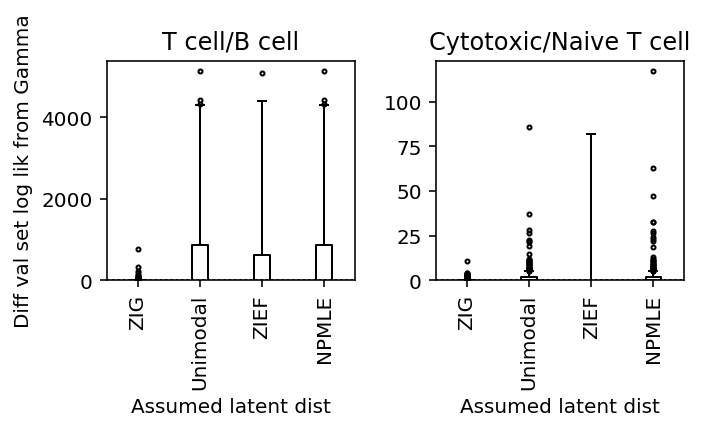
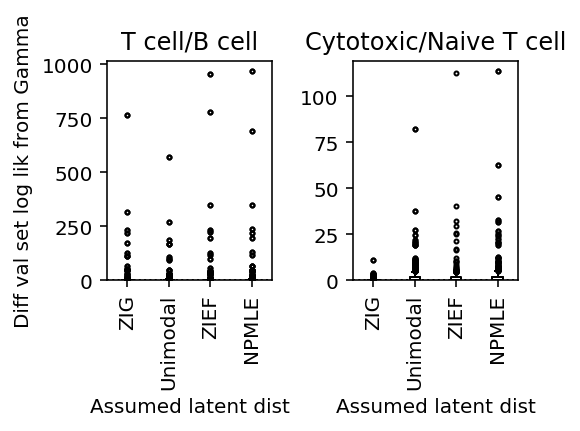
Republish synthetic mix benchmark

diff --git a/docs/deconvolution.html b/docs/deconvolution.html
@@ -1,7 +1,7 @@
 <!DOCTYPE html>
 <html lang="en">
 <head>
-<!-- 2019-05-16 Thu 11:16 -->
+<!-- 2019-05-18 Sat 22:04 -->
 <meta charset="utf-8">
 <meta name="viewport" content="width=device-width, initial-scale=1">
 <title>Comparison of expression deconvolution approaches</title>
@@ -870,7 +870,8 @@ individuals.
 <span class="org-keyword">def</span> <span class="org-function-name">read_c1</span>():
   <span class="org-variable-name">x</span> = pd.read_csv(<span class="org-string">'/project2/mstephens/aksarkar/projects/singlecell-qtl/data/ercc-counts.txt.gz'</span>, sep=<span class="org-string">'\t'</span>, index_col=0)
   <span class="org-variable-name">keep_samples</span> = pd.read_csv(<span class="org-string">'/project2/mstephens/aksarkar/projects/singlecell-qtl/data/quality-single-cells.txt'</span>, header=<span class="org-constant">None</span>, index_col=0, sep=<span class="org-string">'\t'</span>)
-  <span class="org-keyword">return</span> x.loc[:,np.logical_and((x.<span class="org-builtin">sum</span>(axis=0) &gt; 0).values, keep_samples.values.ravel())].values.T
+  <span class="org-comment-delimiter"># </span><span class="org-comment">Throw out samples with only one spike-in molecule detected</span>
+  <span class="org-keyword">return</span> x.loc[:,np.logical_and((x.<span class="org-builtin">sum</span>(axis=0) &gt; 1).values, keep_samples.values.ravel())].values.T
 
 <span class="org-variable-name">data</span> = {
   <span class="org-string">'dropseq'</span>: read_dropseq,
@@ -1144,13 +1145,18 @@ CD8+ T cells and CD19+ B cells from
 </p>
 
 <div class="org-src-container">
-<pre class="src src-ipython" id="org1ded154">&lt;&lt;imports&gt;&gt;
-<span class="org-comment-delimiter"># </span><span class="org-comment">Important: filter genes after mixing cells</span>
-<span class="org-variable-name">t_cells</span> = scmodes.dataset.read_10x(<span class="org-string">'/project2/mstephens/aksarkar/projects/singlecell-ideas/data/10xgenomics/cytotoxic_t/filtered_matrices_mex/hg19/'</span>, return_df=<span class="org-constant">True</span>, min_detect=0)
+<pre class="src src-ipython" id="org897e7b6"><span class="org-variable-name">t_cells</span> = scmodes.dataset.read_10x(<span class="org-string">'/project2/mstephens/aksarkar/projects/singlecell-ideas/data/10xgenomics/cytotoxic_t/filtered_matrices_mex/hg19/'</span>, return_df=<span class="org-constant">True</span>, min_detect=0)
 <span class="org-variable-name">b_cells</span> = scmodes.dataset.read_10x(<span class="org-string">'/project2/mstephens/aksarkar/projects/singlecell-ideas/data/10xgenomics/b_cells/filtered_matrices_mex/hg19/'</span>, return_df=<span class="org-constant">True</span>, min_detect=0)
 <span class="org-variable-name">x</span>, <span class="org-variable-name">y</span> = scmodes.dataset.synthetic_mix(t_cells, b_cells)
+<span class="org-comment-delimiter"># </span><span class="org-comment">Important: filter genes after mixing cells</span>
 <span class="org-variable-name">keep_genes</span> = (x &gt; 0).mean(axis=0) &gt;= 0.25
 <span class="org-variable-name">x</span> = x.loc[:,keep_genes]
+</pre>
+</div>
+
+<div class="org-src-container">
+<pre class="src src-ipython" id="org1ded154">&lt;&lt;imports&gt;&gt;
+&lt;&lt;cd8-cd19-mix&gt;&gt;
 <span class="org-variable-name">res</span> = scmodes.benchmark.evaluate_deconv_generalization(x.values, stratify=y, pool=<span class="org-constant">None</span>, train_size=0.5, test_size=0.1, random_state=0, methods=[<span class="org-string">'gamma'</span>, <span class="org-string">'point_gamma'</span>])
 res.to_csv(f<span class="org-string">'/scratch/midway2/aksarkar/modes/deconv-generalization/cd8-cd19-mix-gpu.txt.gz'</span>, compression=<span class="org-string">'gzip'</span>, sep=<span class="org-string">'\t'</span>)
 </pre>
@@ -1173,9 +1179,7 @@ EOF
 <span class="org-variable-name">tasks</span> = [<span class="org-string">'unimodal'</span>, <span class="org-string">'zief'</span>, <span class="org-string">'npmle'</span>]
 <span class="org-variable-name">task</span> = tasks[<span class="org-builtin">int</span>(os.environ[<span class="org-string">'SLURM_ARRAY_TASK_ID'</span>])]
 <span class="org-keyword">with</span> mp.Pool() <span class="org-keyword">as</span> pool:
-  <span class="org-variable-name">t_cells</span> = scmodes.dataset.read_10x(<span class="org-string">'/project2/mstephens/aksarkar/projects/singlecell-ideas/data/10xgenomics/cytotoxic_t/filtered_matrices_mex/hg19/'</span>, return_df=<span class="org-constant">True</span>)
-  <span class="org-variable-name">b_cells</span> = scmodes.dataset.read_10x(<span class="org-string">'/project2/mstephens/aksarkar/projects/singlecell-ideas/data/10xgenomics/b_cells/filtered_matrices_mex/hg19/'</span>, return_df=<span class="org-constant">True</span>)
-  <span class="org-variable-name">x</span>, <span class="org-variable-name">y</span> = scmodes.dataset.synthetic_mix(t_cells, b_cells)
+  &lt;&lt;cd8-cd19-mix&gt;&gt;
   <span class="org-variable-name">res</span> = scmodes.benchmark.evaluate_deconv_generalization(x.values, stratify=y, pool=pool, train_size=0.5, test_size=0.1, random_state=0, methods=[task])
   res.to_csv(f<span class="org-string">'/scratch/midway2/aksarkar/modes/deconv-generalization/cd8-cd19-mix-{task}.txt.gz'</span>, compression=<span class="org-string">'gzip'</span>, sep=<span class="org-string">'\t'</span>)
 </pre>
@@ -1270,9 +1274,10 @@ Plot the results.
 
 <div class="org-src-container">
 <pre class="src src-ipython"><span class="org-variable-name">fig</span>, <span class="org-variable-name">ax</span> = plt.subplots(1, 2, sharey=<span class="org-constant">True</span>)
-fig.set_size_inches(5, 3)
+fig.set_size_inches(4, 3)
 <span class="org-keyword">for</span> a, k, t <span class="org-keyword">in</span> <span class="org-builtin">zip</span>(ax, <span class="org-builtin">sorted</span>(benchmark.keys()), [<span class="org-string">'T cell/B cell'</span>, <span class="org-string">'Cytotoxic/Naive T cell'</span>]):
-  a.boxplot((benchmark[f<span class="org-string">'{k}'</span>].values - benchmark[f<span class="org-string">'{k}'</span>][<span class="org-string">'gamma'</span>].values.reshape(-1, 1))[:,1:],
+  <span class="org-variable-name">T</span> = (benchmark[f<span class="org-string">'{k}'</span>].values - benchmark[f<span class="org-string">'{k}'</span>][<span class="org-string">'gamma'</span>].values.reshape(-1, 1))[:,1:]
+  a.boxplot([x[~np.isnan(x)] <span class="org-keyword">for</span> x <span class="org-keyword">in</span> T.T],
             widths=0.25, medianprops={<span class="org-string">'color'</span>: <span class="org-string">'k'</span>}, flierprops={<span class="org-string">'marker'</span>: <span class="org-string">'.'</span>, <span class="org-string">'markersize'</span>: 4})
   a.axhline(y=0, ls=<span class="org-string">':'</span>, lw=1, c=<span class="org-string">'k'</span>)
   a.set_xticklabels([<span class="org-string">'ZIG'</span>, <span class="org-string">'Unimodal'</span>, <span class="org-string">'ZIEF'</span>, <span class="org-string">'NPMLE'</span>], rotation=90)
@@ -1295,14 +1300,16 @@ Zoom in on the relevant part of the plot.
 
 <div class="org-src-container">
 <pre class="src src-ipython"><span class="org-variable-name">fig</span>, <span class="org-variable-name">ax</span> = plt.subplots(1, 2)
-fig.set_size_inches(5, 3)
+fig.set_size_inches(4, 3)
 <span class="org-keyword">for</span> a, k, t <span class="org-keyword">in</span> <span class="org-builtin">zip</span>(ax, <span class="org-builtin">sorted</span>(benchmark.keys()), [<span class="org-string">'T cell/B cell'</span>, <span class="org-string">'Cytotoxic/Naive T cell'</span>]):
   <span class="org-variable-name">T</span> = (benchmark[f<span class="org-string">'{k}'</span>].values - benchmark[f<span class="org-string">'{k}'</span>][<span class="org-string">'gamma'</span>].values.reshape(-1, 1))[:,1:]
+  a.boxplot([x[~np.isnan(x)] <span class="org-keyword">for</span> x <span class="org-keyword">in</span> T.T],
+            widths=0.25, medianprops={<span class="org-string">'color'</span>: <span class="org-string">'k'</span>}, flierprops={<span class="org-string">'marker'</span>: <span class="org-string">'.'</span>, <span class="org-string">'markersize'</span>: 4})
   a.boxplot(T, widths=0.25, medianprops={<span class="org-string">'color'</span>: <span class="org-string">'k'</span>}, flierprops={<span class="org-string">'marker'</span>: <span class="org-string">'.'</span>, <span class="org-string">'markersize'</span>: 4})
   a.axhline(y=0, ls=<span class="org-string">':'</span>, lw=1, c=<span class="org-string">'k'</span>)
   a.set_xticklabels([<span class="org-string">'ZIG'</span>, <span class="org-string">'Unimodal'</span>, <span class="org-string">'ZIEF'</span>, <span class="org-string">'NPMLE'</span>], rotation=90)
   a.set_xlabel(<span class="org-string">'Assumed latent dist'</span>)
-  a.set_ylim(0, 1.05 * T.<span class="org-builtin">max</span>())
+  a.set_ylim(0, 1.05 * np.ma.masked_invalid(T).<span class="org-builtin">max</span>())
   a.set_title(t)
 ax[0].set_ylabel(<span class="org-string">'Diff val set log lik from Gamma'</span>)
 fig.tight_layout()
@@ -1447,7 +1454,7 @@ fig.tight_layout()
 </div>
 <div id="postamble" class="status">
 <p class="author">Author: Abhishek Sarkar</p>
-<p class="date">Created: 2019-05-16 Thu 11:16</p>
+<p class="date">Created: 2019-05-18 Sat 22:04</p>
 <p class="validation"><a href="http://validator.w3.org/check?uri=referer">Validate</a></p>
 </div>
 </body>
